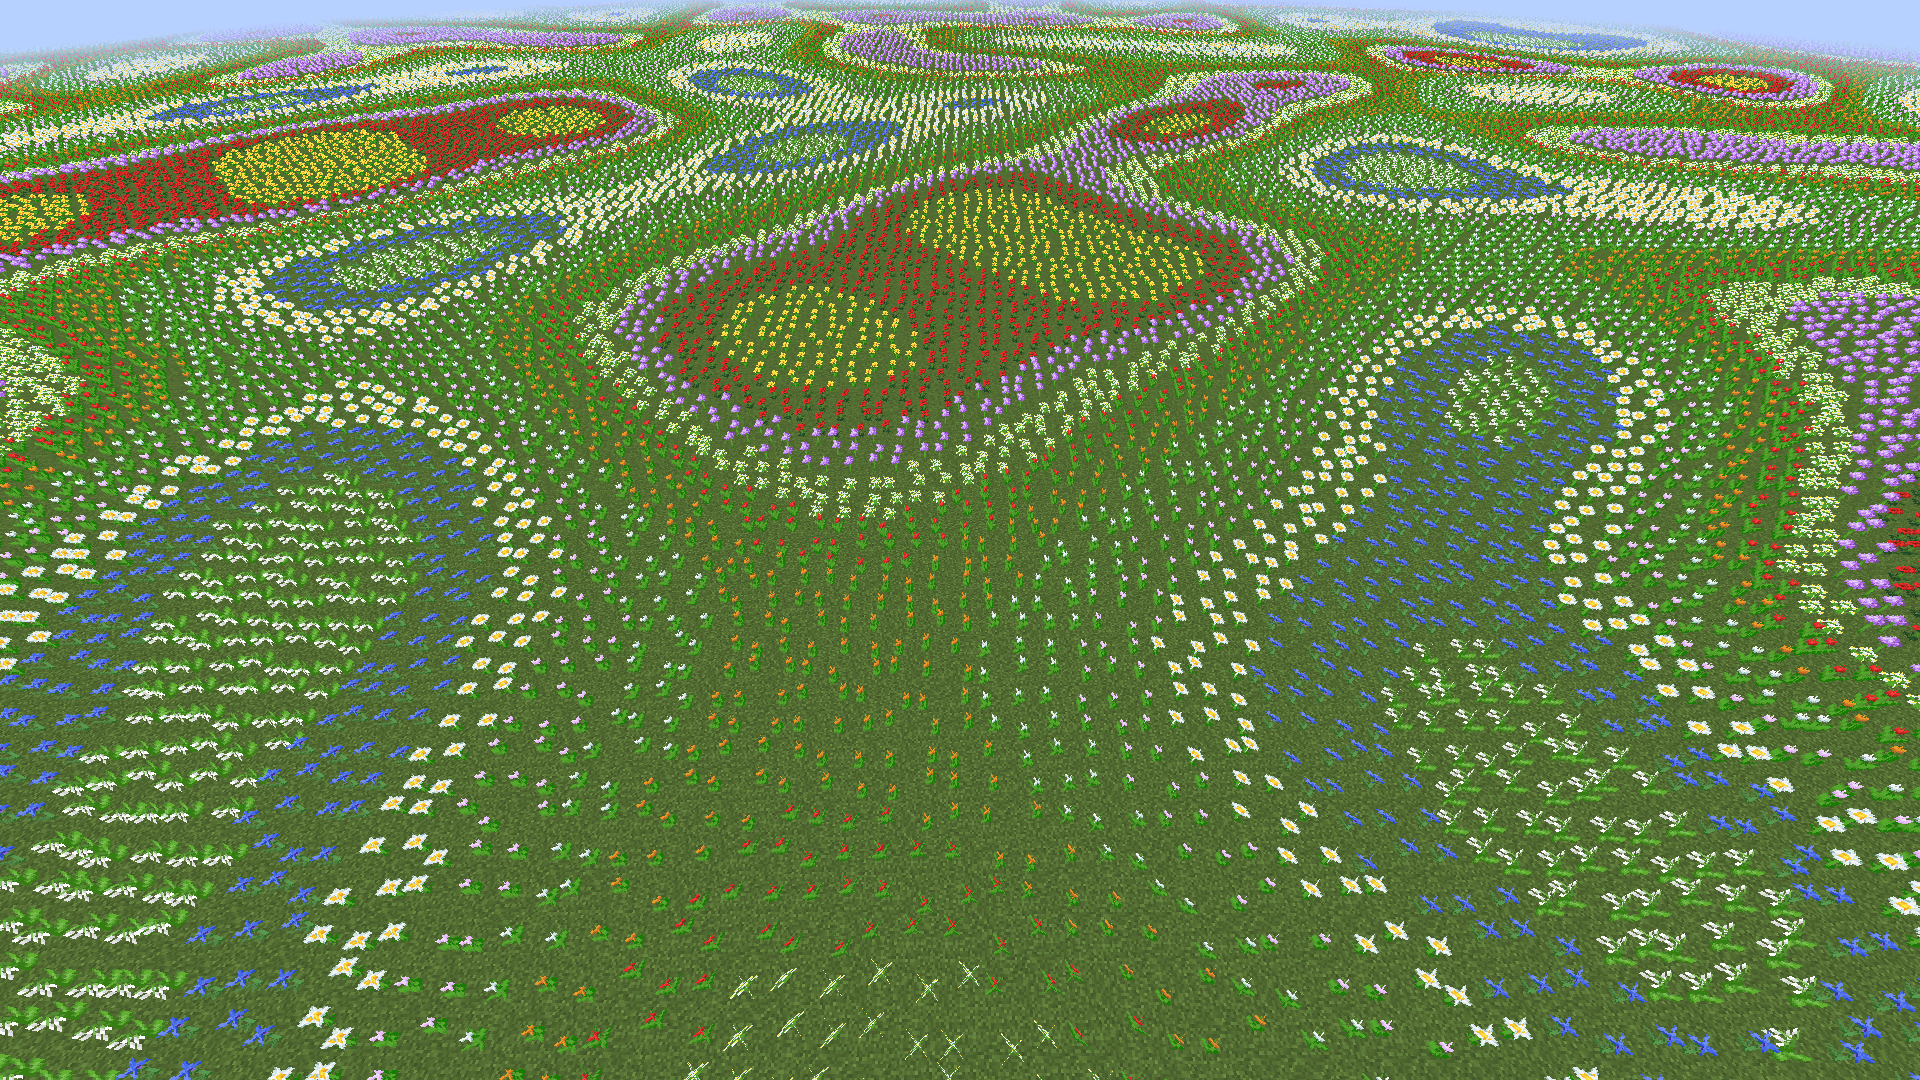
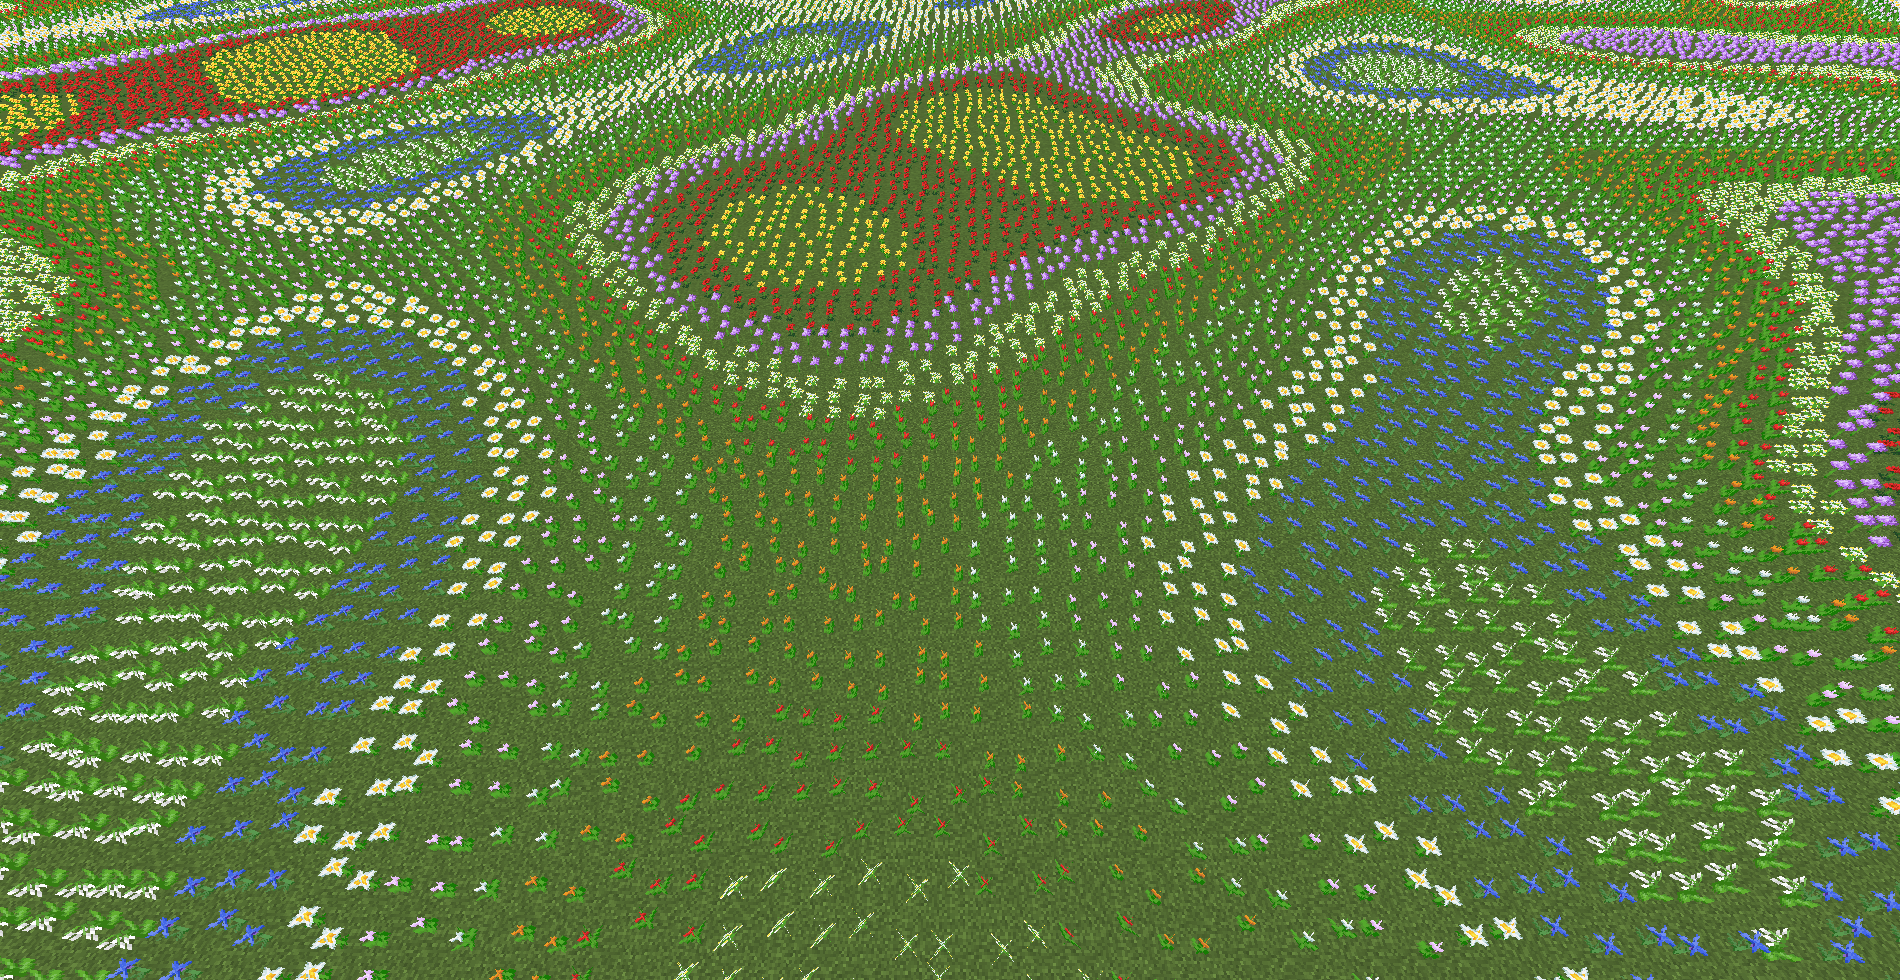
pp

diff --git a/src/1-introduction/1.4-properties-of-biome.md b/src/1-introduction/1.4-properties-of-biome.md
@@ -25,7 +25,7 @@
 
 **气候（Climate）** 是生物群系贯穿始终的最重要的属性，是对生物群系特征的直观感受的概括。粗略分为温度和降水量两个部分。
 
-### 温度、温度修饰
+### 温度、温度修饰符
 
 **温度（Temperature）** 这一属性代表了这个生物群系的**默认温度**。默认温度常常参与的是未知空间上下文的情况的计算。而具体到每个方块上的温度，这里不妨叫**当地温度**。当地温度是默认温度先经过**温度修饰符（TemperatureModifier）** 进行修饰，再根据高度调整得到。
 
@@ -52,11 +52,89 @@
 
 此外，温度和降水量还会参与到植物颜色的渲染等。
 
-## 深度、规模和地形
+## 地形
+
+**地形** 是生物群系生成中的重要特征，与地形的噪声密切相关。
 
 **深度（Depth）** 描述的是生物群系的平均海拔。注意这是一个平均值，比如若该数值为 0，虽说理论上是和海平面齐平，但其实相当低洼，因为真正的高度会根据噪声和规模有所起伏。
 
 **规模（Scale）** 描述的是生物群系的高度差值。这个数值越大，地形的高低起伏越大。**放大化（Amplified）** 世界类型、**旧版自定义（Customize）** 世界类型的“山脉狂魔”预设就是扩大了这个数值。放大化在此之外还做了一些特殊处理。
+
+如果说最初的噪声是随机变量 **X** ，最后的地形高度是随机变量 **Y **= b**X** + a，那么深度就是 a，而规模就是 b。
+
+## 世界生成设置
+
+**世界生成设置（GenerationSettings）** 包含了一些与世界生成有关（主要是地形和特性方面）的内容，包含
+
+* **地表构造器（SurfaceBuilder）** 地表的大的风貌构造，例如恶地的风貌就比较特殊。
+* **镂空器（Carver）** 凿空方块，添加空气或者流体。
+* **特性（Feature）** 花草树木，矿石矿井等都是特性。
+  * **结构（Structure）** 特别的，如村庄、要塞、废弃矿井等都属于结构。
+  * **花（Flower）** 一格高的，可自然生成的花。
+
+### 花
+
+> （双手托起头）我是一朵花
+>
+> ——Yaossg 早年迷惑行为
+
+**花（Flower）** 种类繁多，极大的美化了 MC 的自然景观。在生物群系属性的世界生成设置中单独列出的，是一格高的，可自然生成的花。
+
+花有两种途径获得，一种是世界生成时自带的花，另一种是使用骨粉对草方块右键得到的草丛中会有少许的花。这两种途径获得的花是一致的。
+
+在绝大多数生物群系中，都只会生成虞美人和蒲公英（两者生成的权重为2：1），而沼泽只会生成兰花。蘑菇岛和恶地不生成花。
+
+但是在一些特殊的生物群系中，如（普通或者向日葵）平原、繁华森林中，会根据生成坐标的当地噪声，由**方块状态提供器（BlockStateProvider）** 从可选的方块状态中选择一些花进行放置。由于与当地噪声直接相关，这样生成出来的花，即使在随机之中也存在一些规律。这种规律在离散的花丛之间无法观察到，我们不妨来看看如果整个屏幕都被花铺满会是什么样子。
+
+#### 平原花
+
+![](../resources/flowers/plain-flowers.png)
+
+平原花主要分为两类——郁金香和非郁金香。
+
+只有在当噪声低于阈值时，即为郁金香，每种颜色的郁金香的概率是相等的。可以发现，这样就构成了一片片郁金香区域。只有区域之内才可以是郁金香。
+
+其它地方生成花朵种类和对应的权重如下表所示：
+
+| 花     | 权重 |
+| ------ | ---- |
+| 蒲公英 | 2    |
+| 虞美人 | 1    |
+| 茜草花 | 1    |
+| 滨菊   | 1    |
+| 矢车菊 | 1    |
+
+实际上，对历史略知一二就不难注意到，后四种花（除了后来加入的矢车菊）从前使用的是同一个数据值，姑且叫做“虞美人系”，无论是前面提到的“绝大多数生物群系”，还是繁华森林，“虞美人系”与蒲公英生成权重的比值都是2：1。只不过在繁华森林中虞美人有了更多“变种”罢了。
+
+#### 森林花
+
+![](../resources/flowers/forest-flowers.png)
+
+如果说平原花还带点随机的影子，森林花属于是直接不演了——只要生物群系是繁华森林，确定位置的花是确定的。由于是由噪声决定的，所以可以非常明显的看出条带状的边界，和他们共同形成的“阶梯”。这其实给我们一点启示，我们可以根据我们对不同颜色染料的需求，选择在特定的区域刷花。
+
+噪声从低到高，它们分别是：
+
+- 蒲公英
+- 虞美人
+- 绒球葱
+- 茜草花
+- 红色郁金香
+- 橙色郁金香
+- 白色郁金香
+- 粉红色郁金香
+- 滨菊
+- 矢车菊
+- 铃兰
+
+_其实我后来根本不想写这一小节了，完全是依仗不舍得丢两幅图给的动力，真可谓是为了这碟醋才包的饺子_
+
+## 生物生成设置
+
+**生物生成设置（SpawnSettings）**
+
+* 动物生成概率：数值越高，自然生成的动物就越多。寒冷地区这个值偏低。
+* 候选生成生物和生成密度（在主世界的体验并不明显，但下界的区别是非常明显的）
+* 是否适于玩家出生（玩家会尽可能优先在这些生物群系中出生）
 
 ## 气氛
 
@@ -76,50 +154,3 @@
 * 音乐
 
 并非所有生物群系都有上述特效。
-
-## 生物生成设置
-
-**生物生成设置（SpawnSettings）**
-
-* 动物生成概率：数值越高，自然生成的动物就越多。寒冷地区这个值偏低。
-* 候选生成生物和生成密度（在主世界的体验并不明显，但下界的区别是非常明显的）
-* 是否适于玩家出生（在出生点的选择中起到参考的作用）
-
-### 出生点选择
-
-接下来详细介绍出生点选择。
-
-TODO
-
-## 世界生成设置
-
-**世界生成设置（GenerationSettings）** 包含了一些与世界生成有关（主要是地形和特性方面）的内容，包含
-
-* **地表构造器（SurfaceBuilder）** 地表的大的风貌构造，例如恶地的风貌就比较特殊。
-* **镂空器（Carver）** 凿空方块，添加空气或者流体。
-* **特性（Feature）** 花草树木，矿石矿井等都是特性。
-  * **结构（Structure）** 特别的，如村庄、要塞、废弃矿井等都属于结构。
-  * **花（Flower）** 花。
-
-### 花
-
-> （双手托起头）我是一朵花
->
-> ——Yaossg 早年迷惑行为
-
-**花（Flower）** 种类繁多，在生成的时候，**方块状态提供器（BlockStateProvider）** 会从可选的方块状态中进行选择，并进行一些过滤最后生成。
-
-下面详细介绍两种方块状态提供器。
-
-### 平原花方块状态提供器
-
-![](../resources/flowers/plain-flowers.png)
-
-
-
-### 森林花方块状态提供器
-
-![](../resources/flowers/forest-flowers.png)
-
-
-
